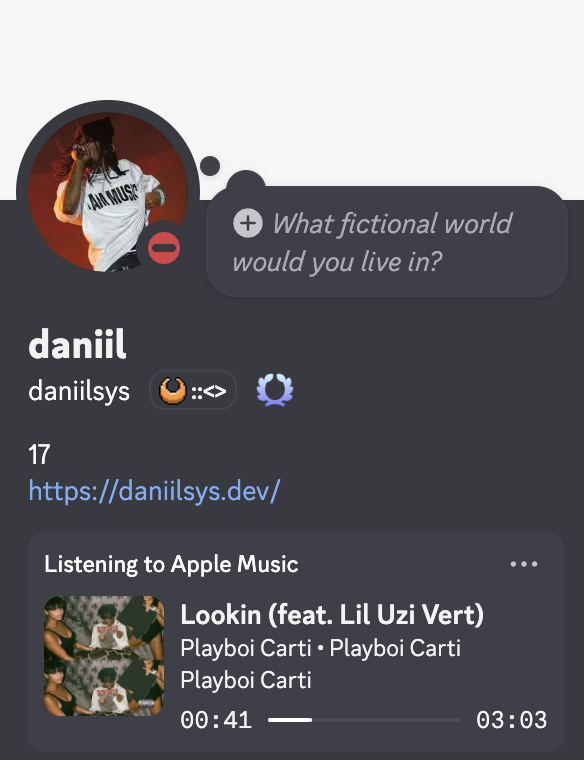
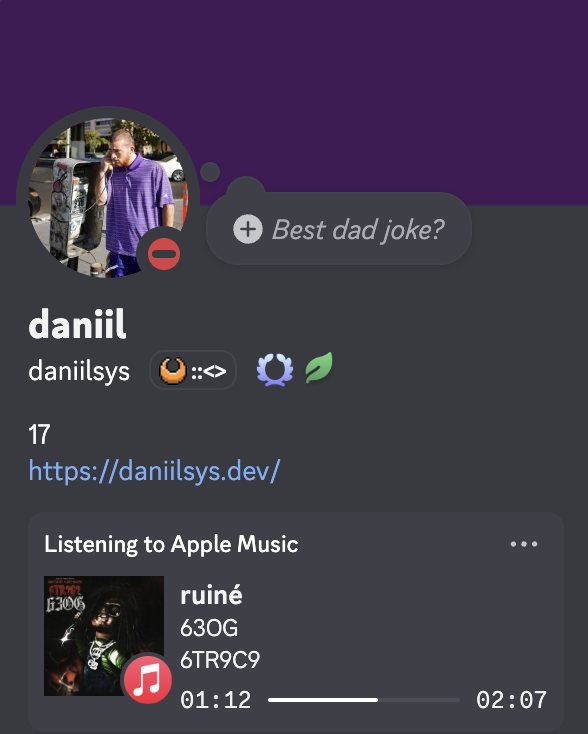
feat: v1.1.0 — pause indicator and cleaner activity display
Add small icon overlay showing pause/play state, simplify state string
to avoid duplicate album name, and add pause icon SVG/PNG asset.

diff --git a/src/discord.rs b/src/discord.rs
@@ -92,8 +92,14 @@ pub fn set_activity_now_playing(stream: &mut UnixStream, np: &NowPlaying) -> io:
         None
     };
 
-    let artwork_url =
-        artwork::fetch_artwork_url(&np.artist, &np.track).unwrap_or_else(|| "am_icon_001".to_string());
+    let artwork_url = artwork::fetch_artwork_url(&np.artist, &np.track)
+        .unwrap_or_else(|| "am_icon_001".to_string());
+
+    let (small_image, small_text) = if np.state == PlayerState::Paused {
+        (Some("pause_icon".to_string()), Some("Paused".to_string()))
+    } else {
+        (Some("am_icon_001".to_string()), Some("Apple Music".to_string()))
+    };
 
     let command = SetActivityCommand {
         cmd: "SET_ACTIVITY",
@@ -109,6 +115,8 @@ pub fn set_activity_now_playing(stream: &mut UnixStream, np: &NowPlaying) -> io:
                 assets: Assets {
                     large_image: artwork_url,
                     large_text: np.album.clone(),
+                    small_image,
+                    small_text,
                 },
             }),
         },

diff --git a/src/types.rs b/src/types.rs
@@ -43,6 +43,10 @@ pub struct Timestamps {
 pub struct Assets {
     pub large_image: String,
     pub large_text: String,
+    #[serde(skip_serializing_if = "Option::is_none")]
+    pub small_image: Option<String>,
+    #[serde(skip_serializing_if = "Option::is_none")]
+    pub small_text: Option<String>,
 }
 
 #[derive(Deserialize)]
@@ -83,10 +87,6 @@ impl NowPlaying {
     }
 
     pub fn state_string(&self) -> String {
-        if self.album.is_empty() {
-            self.artist.clone()
-        } else {
-            format!("{} • {}", self.artist, self.album)
-        }
+        self.artist.clone()
     }
 }

diff --git a/README.md b/README.md
@@ -23,6 +23,7 @@ No Electron. No heavy SDK. Just AppleScript + Discord IPC.
 
 - **Track info** — song title, artist, and album displayed on your Discord profile
 - **Album artwork** — cover art fetched automatically via Deezer API
+- **Pause indicator** — shows a pause icon overlay when music is paused
 - **Progress bar** — shows elapsed and remaining time
 - **Smart updates** — only updates Discord when the track or playback state changes
 - **Auto-reconnect** — reconnects automatically if Discord restarts
